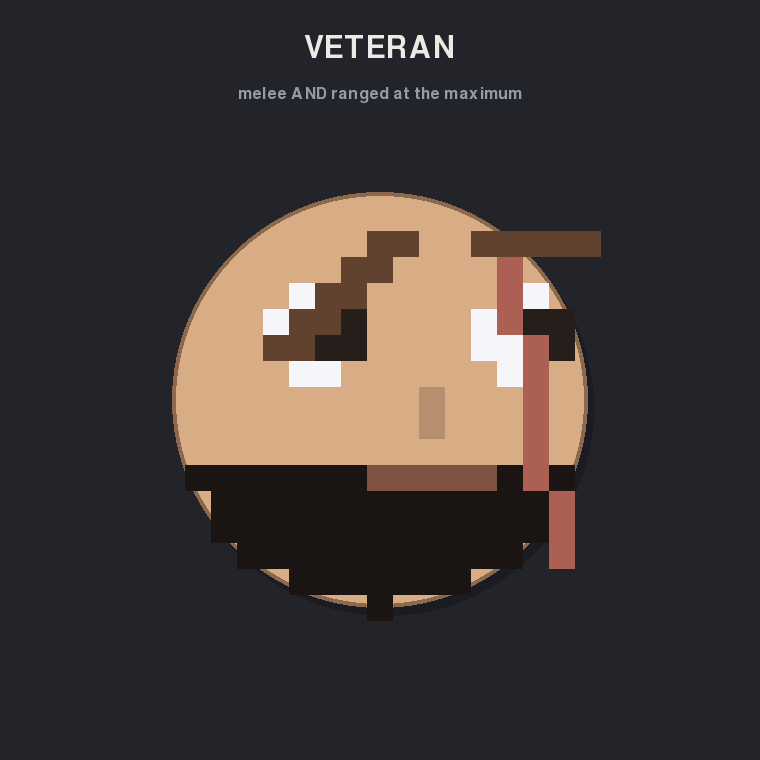
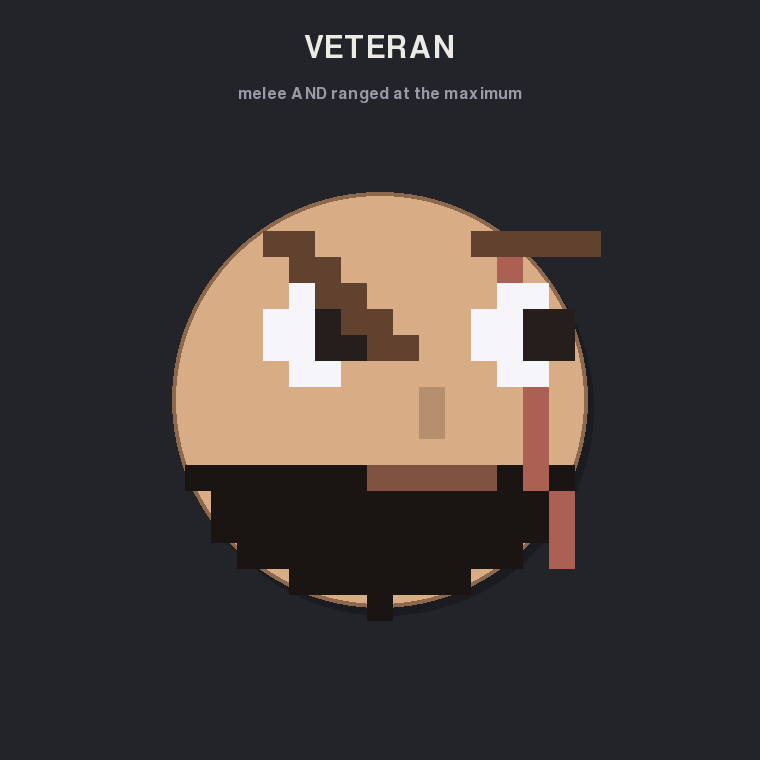
face: the scar goes BEHIND the eye, and the war brow was mirrored
TWO BUGS, both mine, both in the veteran face.

1. THE SCAR SPLIT THE EYE IN TWO. It was drawn LAST, over everything, so it
   cut straight down the middle of the eyeball. It is a scar, not a sliced
   eye. The order is now four layers and the order IS the feature:

       the beard   -- the bottom third of the face, filled
       the scar    -- OVER the beard
       the eyes    -- OVER the scar
       brows, nose, mouth

   Measured on the sprite: the scar shows ABOVE the eye and BELOW it, and
   NOT ONE PIXEL of it lands on the eye itself.

2. THE WAR BROW WAS MIRRORED. `(cx - bw, by - tw)` and `(cx + bw, by + tw)`
   are not the same line the other way round -- swapping the signs put the
   HIGH end where the LOW one goes, so it was a different mark wearing the
   war face's clothes. It is copied from the war face now, sign for sign,
   and checked pixel by pixel:

       war    : [(7,5), (8,5), (8,6), (9,6), (9,7), (10,7), (10,8)]
       veteran: [(7,5), (8,5), (8,6), (9,6), (9,7), (10,7), (10,8)]
       identical: True

veteran_face.png re-rendered.

Changed region(s): [[0.3329, 0.3026, 0.575, 0.4842], [0.6355, 0.3632, 0.7263, 0.5145]]

diff --git a/face.py b/face.py
@@ -121,17 +121,30 @@ def _render(screen, hx: float, hy: float, r: int, fx: float, fy: float,
     sly = (mood == "sly")
 
     if mood == "veteran":
-        # THE BEARD IS THE BOTTOM THIRD OF THE FACE, FILLED. That is all it is.
-        # Drawn FIRST, because everything else goes OVER it -- the mouth, the
-        # scar, the eye. It is clipped to the head's own circle so it sits on
-        # the face and not off the sides of it.
+        # THE ORDER IS THE WHOLE THING HERE, and it is FOUR LAYERS:
+        #
+        #   1  the beard   -- the bottom third of the face, filled
+        #   2  the scar    -- OVER the beard
+        #   3  the eyes    -- OVER the scar, so the scar does NOT split the eye
+        #   4  brows, nose, mouth
+        #
+        # The scar was drawn LAST for a while and it cut the eye in two down
+        # the middle, which is not a scar, it is a sliced eyeball.
         hc, vc = int(round(hx)), int(round(hy))
+
+        # 1. THE BEARD: the bottom third of the face, filled, and clipped to
+        #    the head's own circle so it sits ON the face and not off the sides.
         for dy in range(3, r + 1):
             y = vc + dy
             hw = int(math.sqrt(max(0.0, r * r - dy * dy)))
             pygame.draw.line(screen, BEARD, (hc - hw, y), (hc + hw, y), 1)
 
-        # THEN THE FACE, ON TOP OF IT.
+        # 2. THE SCAR, over the beard and under the eye.
+        cx = ix + sep
+        pygame.draw.line(screen, SCAR, (cx - max(1, r // 6), iy - wr - 1),
+                         (cx + max(1, r // 6), vc + r - 2), 1)
+
+        # 3. THE EYES, on top of it.
         for sgn in (-1, 1):
             cx = ix + sgn * sep
             pygame.draw.circle(screen, WHITE, (cx, iy), wr)
@@ -139,16 +152,18 @@ def _render(screen, hx: float, hy: float, r: int, fx: float, fy: float,
                                (cx + int(round(fx * wr * 0.45)),
                                 iy + int(round(fy * wr * 0.45))), pr)
 
-        # ONE BROW DOWN AND ONE LEVEL. -1 is the war brow, taken straight from
-        # the war face so the two are literally the same mark on both faces.
+        # 4. AND ONE BROW DOWN, ONE LEVEL. The DOWN one is the war face's brow
+        #    EXACTLY -- same line, same ends, same thickness. It was mirrored
+        #    here for a while, which put the high end where the low one goes
+        #    and made it a different mark entirely.
         for sgn in (-1, 1):
             cx = ix + sgn * sep
             if sgn < 0:
                 by = int(round(iy - wr - r * 0.04))
                 bw = max(1, int(round(r * 0.26)))
                 tw = max(2, r // 5)
-                pygame.draw.line(screen, BROW, (cx + bw, by - tw),
-                                 (cx - bw, by + tw), tw)
+                pygame.draw.line(screen, BROW, (cx + sgn * bw, by - tw),
+                                 (cx - sgn * bw, by + tw), tw)
             else:
                 by = int(round(iy - wr - r * 0.20))
                 bw = max(1, int(round(r * 0.20)))
@@ -159,14 +174,10 @@ def _render(screen, hx: float, hy: float, r: int, fx: float, fy: float,
             pygame.draw.line(screen, NOSE, (ix, iy + wr),
                              (ix, int(round(hy + r * NOSE_DOWN))), 1)
 
-        # THE MOUTH, AND THEN THE SCAR, BOTH OVER THE BEARD.
         m_y = int(round(hy + r * MOUTH_DOWN))
         hw = max(1, int(round(r * 0.26)))
         pygame.draw.line(screen, MOUTH, (ix - hw, m_y), (ix + hw, m_y),
                          max(1, r // 8))
-        cx = ix + sep
-        pygame.draw.line(screen, SCAR, (cx - max(1, r // 6), iy - wr - 1),
-                         (cx + max(1, r // 6), vc + r - 2), 1)
         return
 
     if mood == "starved":
